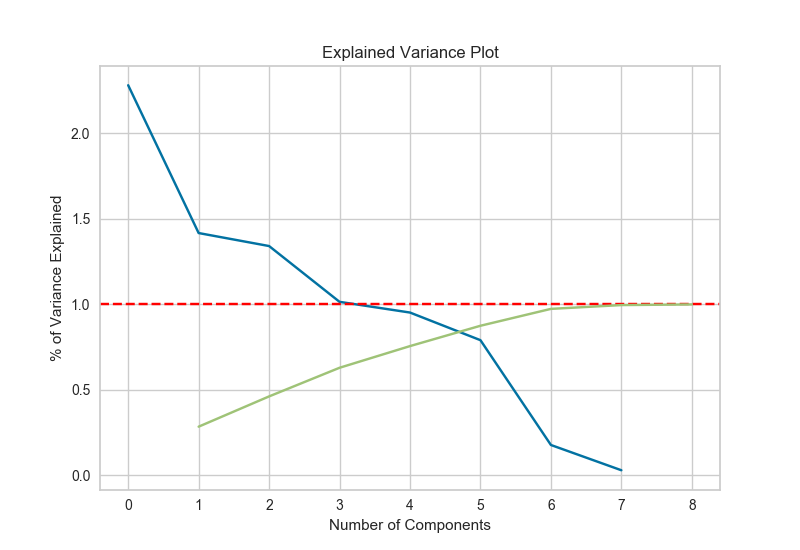
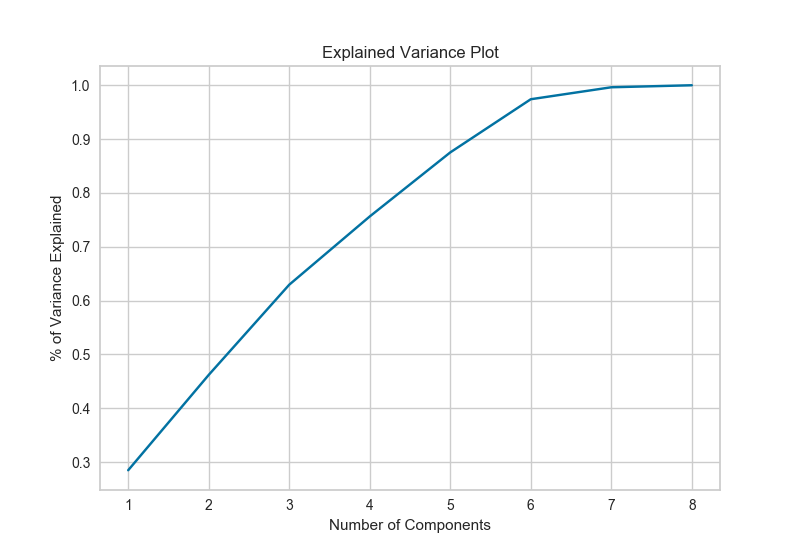
cleanup and link docs

diff --git a/docs/api/features/explainedvariance.py b/docs/api/features/explainedvariance.py
@@ -1,6 +1,7 @@
 #!/usr/bin/env python3
 
 if __name__ == "__main__":
+    import matplotlib.pyplot as plt
     from yellowbrick.datasets import load_concrete
     from yellowbrick.features import ExplainedVariance
 
@@ -12,7 +13,9 @@ if __name__ == "__main__":
     viz.fit(X)              # Fit the data to the visualizer
     viz.transform(X)        # Transform the data
     viz.poof("images/explainedvariance_kaiser.png")
-
+    
+    plt.clf()
+    
     # Scree plot
     viz2 = ExplainedVariance(scree=True)
     viz2.fit(X)

diff --git a/docs/api/features/index.rst b/docs/api/features/index.rst
@@ -19,6 +19,7 @@ At the moment we have the following feature analysis visualizers implemented:
 -  :doc:`pcoords`: plot instances as lines along vertical axes to
    detect classes or clusters
 -  :doc:`pca`: project higher dimensions into a visual space using PCA
+-  :doc:`explainedvariance`: visualize the variance of individual features for PCA
 -  :doc:`manifold`: visualize high dimensional data using manifold learning
 -  :doc:`importances`: rank features by relative importance in a model
 -  :doc:`rfecv`: select a subset of features by importance
@@ -43,7 +44,7 @@ is called which displays the image.
     from yellowbrick.features.manifold import Manifold
     from yellowbrick.features.importances import FeatureImportances
     from yellowbrick.features.rfecv import RFECV
-
+    from yellowbrick.features.decomposition import ExplainedVariance
 
 .. toctree::
    :maxdepth: 2
@@ -56,3 +57,4 @@ is called which displays the image.
    importances
    rfecv
    jointplot
+   explainedvariance

diff --git a/docs/api/features/explainedvariance.rst b/docs/api/features/explainedvariance.rst
@@ -16,9 +16,7 @@ If the ``scree`` option is set to ``True``, the visualizer will return a
 Scree plot, showing the fraction of total variance that all principal components
 including and before the ``n``\ th component explain.
 
-.. plot::
-    :context: close-figs
-    :alt: ExplainedVariance on the Concrete Dataset
+.. code::
 
     from yellowbrick.datasets import load_concrete
     from yellowbrick.features import ExplainedVariance
@@ -33,7 +31,7 @@ including and before the ``n``\ th component explain.
     viz.poof()              # Draw/show/poof the data
 
     # Scree plot
-    viz2 = ExplainedVariance(screen=True)
+    viz2 = ExplainedVariance(scree=True)
     viz2.fit(X)
     viz2.transform(X)
     viz2.poof()
